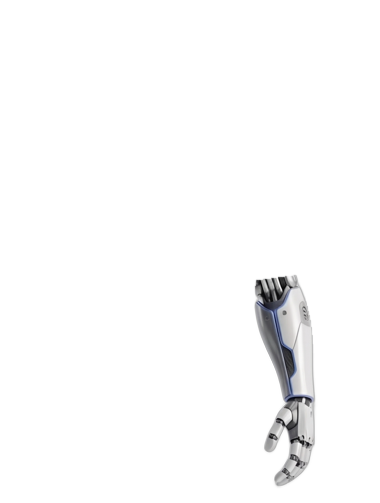
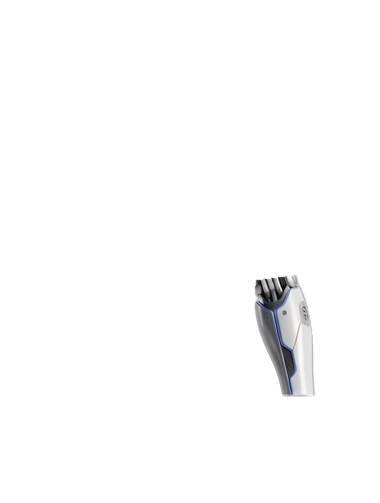
Wave: open palm facing viewer (thumb to head) swapped in while raised, forearm drawn above body; professional voice style and welcome; no-cache revalidation for widget assets

Changed region(s): [[0.6947, 0.7753, 0.8395, 0.9841]]

diff --git a/public/widget/chat.css b/public/widget/chat.css
@@ -61,6 +61,10 @@
 #buk-chat-btn .buk-max-farm { transform-origin: 73.4% 57.1%; animation: buk-farm 14s ease-in-out infinite; }
 #buk-chat-btn.buk-talk .buk-max-uarm, #buk-chat-btn:hover .buk-max-uarm { animation: buk-uarm-now 2.6s ease-in-out 1; }
 #buk-chat-btn.buk-talk .buk-max-farm, #buk-chat-btn:hover .buk-max-farm { animation: buk-farm-now 2.6s ease-in-out 1; }
+#buk-chat-btn .buk-max-palm { position: absolute; inset: 0; width: 100%; height: 100%; overflow: visible; opacity: 0; animation: buk-hand-palm 14s linear infinite; }
+#buk-chat-btn .buk-max-hand { animation: buk-hand-img 14s linear infinite; }
+#buk-chat-btn.buk-talk .buk-max-palm, #buk-chat-btn:hover .buk-max-palm { animation: buk-hand-palm-now 2.6s linear 1; }
+#buk-chat-btn.buk-talk .buk-max-hand, #buk-chat-btn:hover .buk-max-hand { animation: buk-hand-img-now 2.6s linear 1; }
 /* Eye glow over the eyes in the artwork (% of the 380x503 canvas). */
 #buk-chat-btn .buk-max-eye {
   position: absolute; top: 9.64%;
@@ -94,40 +98,44 @@
 @keyframes buk-eye-talk  { 0%,100% { opacity: 1; transform: scale(1); } 50% { opacity: .55; transform: scale(1.25); } }
 @keyframes buk-shine { 0%,55% { background-position: 150% 0; } 85%,100% { background-position: -50% 0; } }
 /* Wave: every 14 s the upper arm lifts out slightly and the forearm swings
-   up from the elbow, waves three times, then drops back. The forearm is
-   mirrored about its own axis while raised (scaleX(-1)) so the palm faces
-   the viewer with the thumb inward, as a real raised hand would; the
-   mirror flip mid-swing reads as the wrist turning. */
+   up from the elbow, waves three times, then drops back. While raised the
+   hanging-hand artwork (back of the hand) is swapped for an open palm
+   facing the viewer, thumb towards the head. */
 @keyframes buk-uarm {
   0%,78%,100% { transform: rotate(0); }
   81.5%,94%   { transform: rotate(-16deg); }
   97%         { transform: rotate(-4deg); }
 }
 @keyframes buk-farm {
-  0%,78%,100% { transform: rotate(0) scaleX(1); }
-  81.5% { transform: rotate(-162deg) scaleX(-1); }
-  84%   { transform: rotate(-188deg) scaleX(-1); }
-  86.5% { transform: rotate(-160deg) scaleX(-1); }
-  89%   { transform: rotate(-188deg) scaleX(-1); }
-  91.5% { transform: rotate(-160deg) scaleX(-1); }
-  94%   { transform: rotate(-172deg) scaleX(-1); }
-  97%   { transform: rotate(-30deg) scaleX(1); }
+  0%,78%,100% { transform: rotate(0); }
+  81.5% { transform: rotate(-150deg); }
+  84%   { transform: rotate(-170deg); }
+  86.5% { transform: rotate(-146deg); }
+  89%   { transform: rotate(-170deg); }
+  91.5% { transform: rotate(-146deg); }
+  94%   { transform: rotate(-158deg); }
+  97%   { transform: rotate(-30deg); }
 }
+/* Hanging-hand artwork out, open palm in, while the arm is up. */
+@keyframes buk-hand-img  { 0%,79%,96.5%,100% { opacity: 1; } 80.5%,95% { opacity: 0; } }
+@keyframes buk-hand-palm { 0%,79%,96.5%,100% { opacity: 0; } 80.5%,95% { opacity: 1; } }
 @keyframes buk-uarm-now {
   0%,100% { transform: rotate(0); }
   15%,78% { transform: rotate(-16deg); }
   92%     { transform: rotate(-4deg); }
 }
 @keyframes buk-farm-now {
-  0%,100% { transform: rotate(0) scaleX(1); }
-  15% { transform: rotate(-162deg) scaleX(-1); }
-  28% { transform: rotate(-188deg) scaleX(-1); }
-  41% { transform: rotate(-160deg) scaleX(-1); }
-  54% { transform: rotate(-188deg) scaleX(-1); }
-  67% { transform: rotate(-160deg) scaleX(-1); }
-  78% { transform: rotate(-172deg) scaleX(-1); }
-  92% { transform: rotate(-30deg) scaleX(1); }
+  0%,100% { transform: rotate(0); }
+  15% { transform: rotate(-150deg); }
+  28% { transform: rotate(-170deg); }
+  41% { transform: rotate(-146deg); }
+  54% { transform: rotate(-170deg); }
+  67% { transform: rotate(-146deg); }
+  78% { transform: rotate(-158deg); }
+  92% { transform: rotate(-30deg); }
 }
+@keyframes buk-hand-img-now  { 0%,5%,90%,100% { opacity: 1; } 11%,84% { opacity: 0; } }
+@keyframes buk-hand-palm-now { 0%,5%,90%,100% { opacity: 0; } 11%,84% { opacity: 1; } }
 
 /* ── Greeting bubble ────────────────────────────────────────────────────── */
 #buk-chat-greet {

diff --git a/public/widget/chat.js b/public/widget/chat.js
@@ -34,7 +34,7 @@
   style.href = ENDPOINT + '/widget/chat.css';
   document.head.appendChild(style);
 
-  // Max: animated android mascot launcher. The artwork is cut into three
+  // Max: animated android mascot launcher. The artwork is cut into four
   // layers on one shared 380x503 canvas (widget/img/max-body, -uarm, -farm;
   // webp with PNG fallback): body, upper arm (pivots at the shoulder, under
   // the shoulder plate) and forearm+hand (pivots at the elbow), so the arm
@@ -42,14 +42,54 @@
   // raised arm is never faded while the resting arm and waist are.
   const MAX_IMG = ENDPOINT + '/widget/img/max';
   const maxLayer = (name, cls) => `<picture class="${cls}"><source srcset="${MAX_IMG}-${name}.webp" type="image/webp"><img src="${MAX_IMG}-${name}.png" alt="" draggable="false"></picture>`;
+  // The artwork only shows the back of the hanging hand, which reads as a
+  // back-to-front hand once the arm is raised. For the wave the hand
+  // cross-fades to this open palm facing the viewer (drawn fingers-down in
+  // the canvas's 380x503 space at the wrist, so the forearm's ~170 degree
+  // swing turns it fingers-up with the thumb towards the head).
+  const PALM_SVG = `
+<svg class="buk-max-palm" viewBox="0 0 380 503" aria-hidden="true" focusable="false">
+  <defs>
+    <linearGradient id="buk-palm-metal" x1="0" y1="0" x2="1" y2="0">
+      <stop offset="0" stop-color="#7f8794"/><stop offset=".5" stop-color="#dfe3e9"/><stop offset="1" stop-color="#8c939f"/>
+    </linearGradient>
+  </defs>
+  <g transform="translate(298 395) rotate(-10) scale(1.3)" stroke="#3f4551" stroke-width=".9" stroke-linejoin="round">
+    <rect x="-13" y="-5" width="26" height="10" rx="3" fill="#353a44"/>
+    <path d="M-12 -1h24" stroke="#6f86e0" stroke-width="1.6"/>
+    <g fill="url(#buk-palm-metal)">
+      <rect x="-15.5" y="38" width="7" height="24" rx="3.5" transform="rotate(9 -12 38)"/>
+      <rect x="-7.5"  y="39" width="7" height="30" rx="3.5" transform="rotate(3 -4 39)"/>
+      <rect x="0.5"   y="39" width="7" height="29" rx="3.5" transform="rotate(-3 4 39)"/>
+      <rect x="8.5"   y="38" width="7" height="24" rx="3.5" transform="rotate(-9 12 38)"/>
+      <rect x="14" y="12" width="7.5" height="24" rx="3.7" transform="rotate(-38 17 14)"/>
+      <path d="M-17 8q0-5 5-5h24q5 0 5 5v27q0 6-6 6h-22q-6 0-6-6Z"/>
+    </g>
+    <g fill="none" stroke="#3a3f4a" stroke-width="1" stroke-linecap="round">
+      <path d="M-14 49l5 1M-6 50h5.5M1.5 50h5.5M9 50l5-1"/>
+      <path d="M-14.5 57l4.5 .8M-6 59h5.5M1.5 59h5.5M9.5 57.6l4.3-.8"/>
+      <path d="M20 26l4 3"/>
+    </g>
+    <rect x="-8" y="13" width="16" height="15" rx="4" fill="#2b303a" stroke="#6f86e0" stroke-width="1"/>
+    <circle cx="0" cy="20.5" r="2.6" fill="#8fc1ff" stroke="none"/>
+  </g>
+</svg>`;
+
   const ROBOT_SVG = `
 <span class="buk-max" aria-hidden="true">
   <span class="buk-max-body">
-    <span class="buk-max-uarm">
-      <span class="buk-max-farm">${maxLayer('farm', 'buk-max-layer')}</span>
-      ${maxLayer('uarm', 'buk-max-layer')}
-    </span>
+    <span class="buk-max-uarm">${maxLayer('uarm', 'buk-max-layer')}</span>
     ${maxLayer('body', 'buk-max-layer')}
+    <!-- Forearm sits above the body (so the raised hand is never hidden
+         behind the shoulder plate) but follows the upper arm by running
+         the identical shoulder animation on its own wrapper. -->
+    <span class="buk-max-uarm buk-max-uarm-follow">
+      <span class="buk-max-farm">
+        ${maxLayer('farm', 'buk-max-layer')}
+        ${maxLayer('hand', 'buk-max-layer buk-max-hand')}
+        ${PALM_SVG}
+      </span>
+    </span>
     <span class="buk-max-shine" style="-webkit-mask-image:url('${MAX_IMG}-body.png');mask-image:url('${MAX_IMG}-body.png')"></span>
     <span class="buk-max-eye buk-max-eye-l"></span>
     <span class="buk-max-eye buk-max-eye-r"></span>

diff --git a/public/admin/index.html b/public/admin/index.html
@@ -1695,7 +1695,7 @@ async function loadModelSettings(){
   try{const s=await get(API+'/settings.php');setSelectValue('chat-model-select',s.gemini_chat_model);setSelectValue('extract-model-select',s.gemini_extract_model);loadVoiceSettings(s);}catch(_){}
 }
 const TTS_VOICES=['Charon','Puck','Fenrir','Orus','Enceladus','Iapetus','Algieba','Algenib','Rasalgethi','Alnilam','Schedar','Achird','Zubenelgenubi','Sadachbia','Sadaltager'];
-const TTS_DEFAULT_STYLE='Read this aloud as Max, a warm, friendly, down-to-earth man from Yorkshire in the north of England, with a natural broad Yorkshire accent, speaking at a relaxed conversational pace';
+const TTS_DEFAULT_STYLE='Read this aloud as Max, a professional customer support advisor for Blake UK. Speak clearly and confidently in a polished, courteous business tone with a light, natural Yorkshire accent: warm and approachable but never casual, exaggerated or comedic. Measured pace, crisp diction, natural pauses at full stops';
 function loadVoiceSettings(s){
   const sel=document.getElementById('tts-voice');
   sel.innerHTML=TTS_VOICES.map(v=>`<option>${v}</option>`).join('');

diff --git a/src/Speech/Speaker.php b/src/Speech/Speaker.php
@@ -9,8 +9,11 @@ class Speaker
 {
     public const DEFAULT_MODEL = 'gemini-3.1-flash-tts-preview';
     public const DEFAULT_VOICE = 'Charon';   // male
-    public const DEFAULT_STYLE = 'Read this aloud as Max, a warm, friendly, down-to-earth man from Yorkshire in the north of England, with a natural broad Yorkshire accent, speaking at a relaxed conversational pace';
-    public const WELCOME       = "Now then! I'm Max, Blake UK's support assistant. What can I help you with today?";
+    public const DEFAULT_STYLE = 'Read this aloud as Max, a professional customer support advisor for Blake UK. Speak clearly and confidently in a polished, courteous business tone with a light, natural Yorkshire accent: warm and approachable but never casual, exaggerated or comedic. Measured pace, crisp diction, natural pauses at full stops';
+    // Earlier defaults: a stored copy of one of these is treated as "not
+    // customised" and upgraded to the current default.
+    public const OLD_STYLES    = ['Read this aloud as Max, a warm, friendly, down-to-earth man from Yorkshire in the north of England, with a natural broad Yorkshire accent, speaking at a relaxed conversational pace'];
+    public const WELCOME       = "Hello, I'm Max, Blake UK's support assistant. How can I help you today?";
     public const LINKS_LINE    = "I've included the links below.";
     public const MAX_WORDS     = 60;
     public const CACHE_DAYS    = 30;
@@ -32,7 +35,7 @@ class Speaker
             'enabled' => $get('voice_enabled', '1') === '1',
             'model'   => $get('tts_model', self::DEFAULT_MODEL),
             'voice'   => $get('tts_voice', self::DEFAULT_VOICE),
-            'style'   => $get('tts_style', self::DEFAULT_STYLE),
+            'style'   => in_array($style = $get('tts_style', self::DEFAULT_STYLE), self::OLD_STYLES, true) ? self::DEFAULT_STYLE : $style,
         ];
     }
 
@@ -85,7 +88,7 @@ class Speaker
             $key = \Gemini\Client::getStoredApiKey();
             if (!$key) return self::fallbackSummary($reply);
             $prompt = "You are Max, Blake UK's friendly support assistant. Rewrite the chat reply below as what you would say out loud in one to three short sentences (no more than " . self::MAX_WORDS . " words). "
-                . "Give the key point or answer only. Never read out web addresses, URLs, long product codes or lists; do not use markdown, emojis or symbols. Use plain spoken British English."
+                . "Give the key point or answer only. Never read out web addresses, URLs, long product codes or lists; do not use markdown, emojis or symbols. Use clear, polished, professional British English suitable for a customer support advisor: courteous and helpful, no slang or dialect words."
                 . ($links ? " The reply contains links, so end with exactly: \"" . self::LINKS_LINE . "\"" : '')
                 . " Output only the words to speak.\n\nREPLY:\n" . $clean;
             $out = (new \Gemini\Client($key))->chat(

diff --git a/tests/cases/speaker_test.php b/tests/cases/speaker_test.php
@@ -64,3 +64,13 @@ test('settings(): defaults to enabled, male Charon voice, Yorkshire style', func
     assert_true(str_contains($c['style'], 'Yorkshire'));
     assert_true(in_array($c['voice'], \Speech\Speaker::MALE_VOICES, true));
 });
+
+test('settings(): a stored earlier default style is upgraded; a custom style is kept', function () {
+    $pdo = db();
+    \ApiUsage\Stats::saveSetting($pdo, 'tts_style', \Speech\Speaker::OLD_STYLES[0]);
+    assert_equal(\Speech\Speaker::DEFAULT_STYLE, \Speech\Speaker::settings()['style']);
+    \ApiUsage\Stats::saveSetting($pdo, 'tts_style', 'Custom style');
+    assert_equal('Custom style', \Speech\Speaker::settings()['style']);
+    $pdo->exec("DELETE FROM settings WHERE key = 'tts_style'");
+    assert_true(str_contains(\Speech\Speaker::DEFAULT_STYLE, 'professional'));
+});
